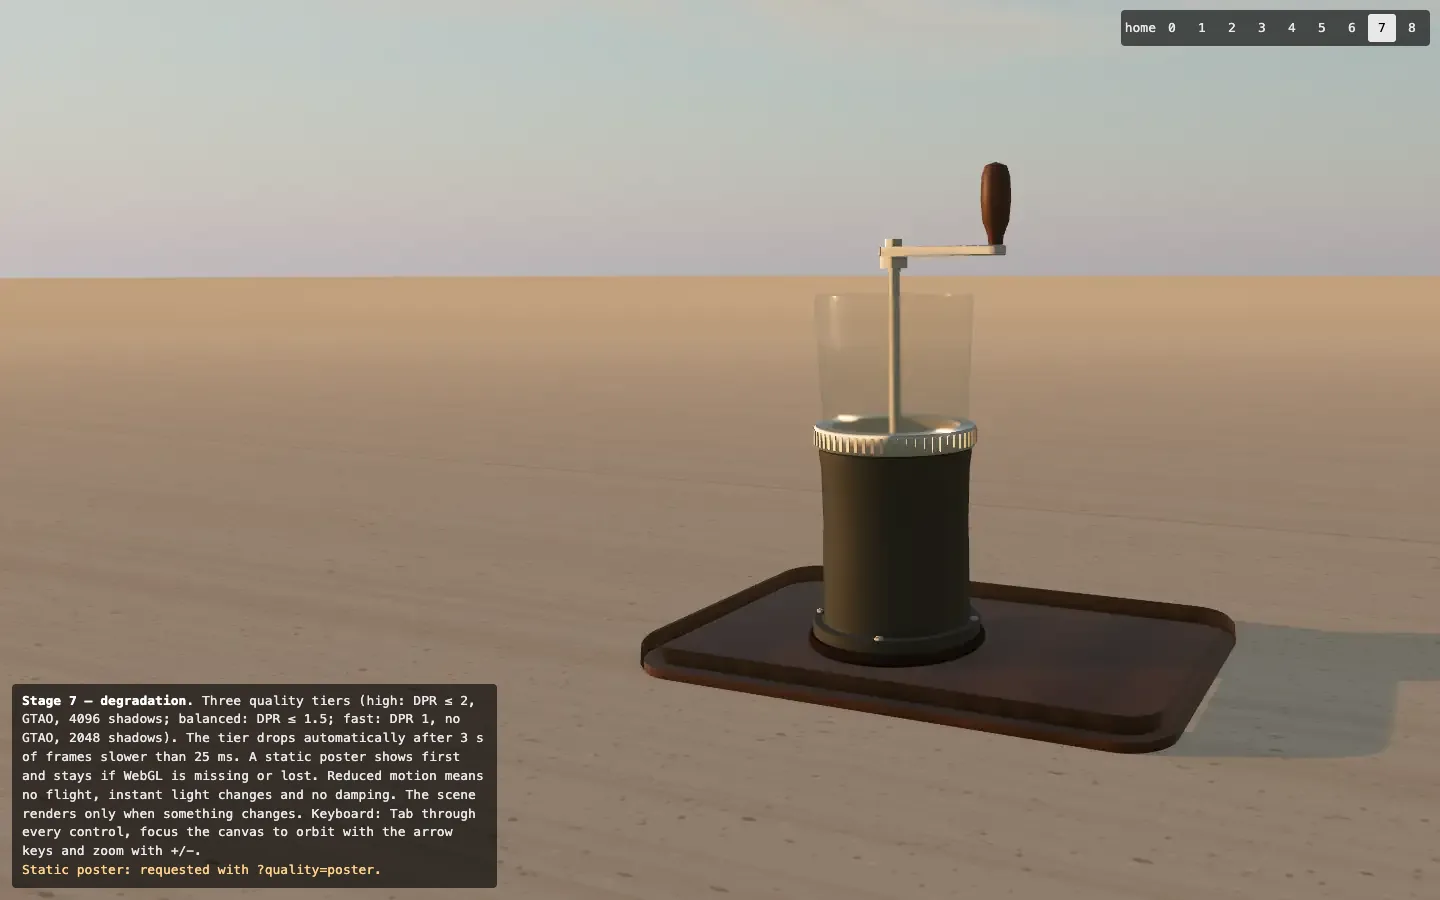
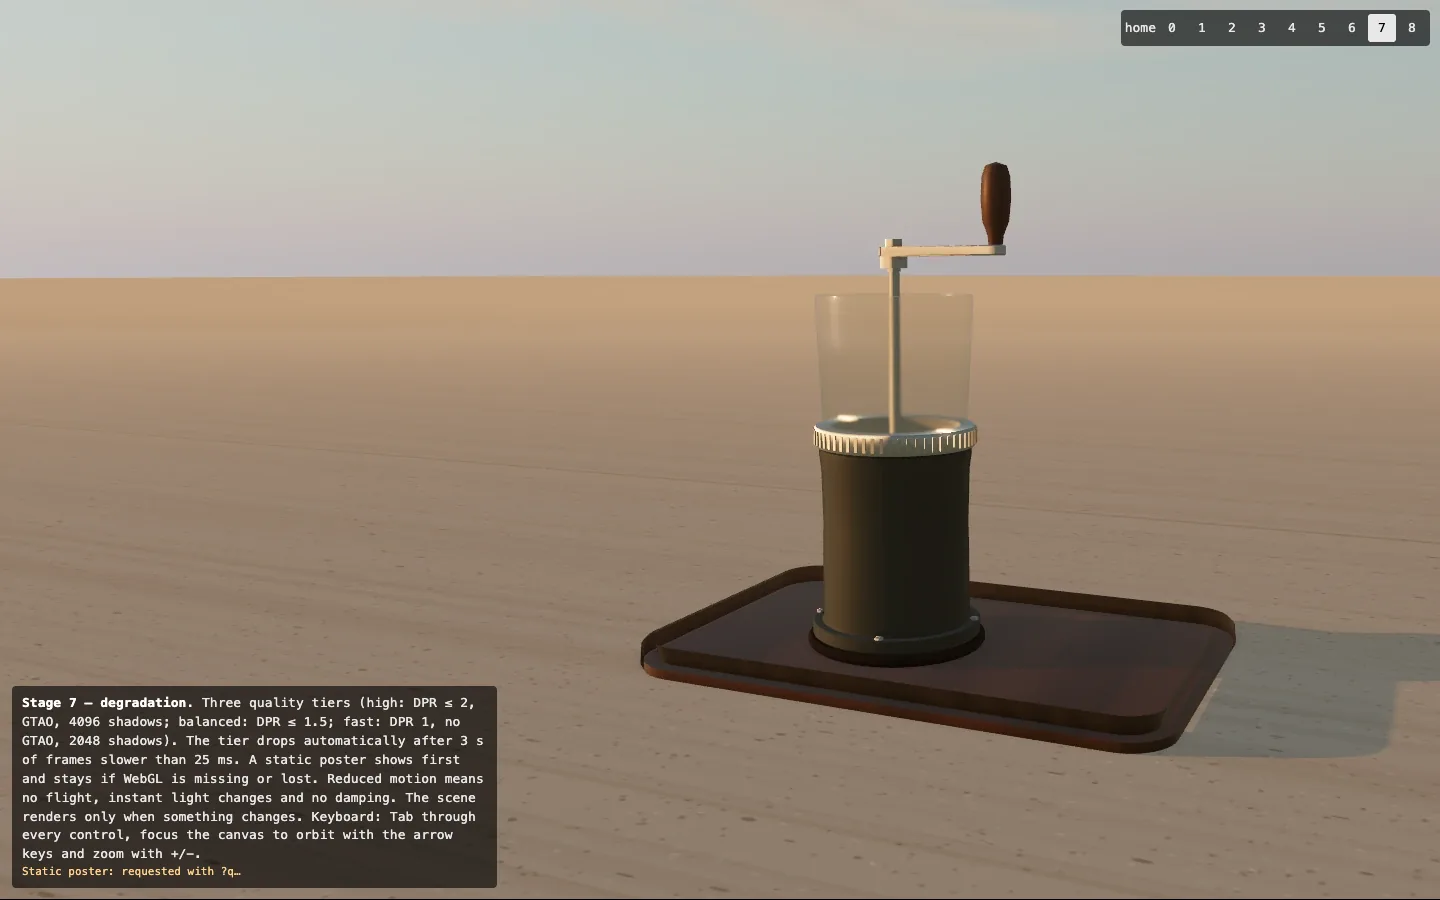
Fix 3.5.3: LCP is the poster (img#poster) on stages 7/8 — posters 48-49 KB, fetchpriority=high + preload, import map moved after the poster, #status 11px/34ch, poster 1px short of the viewport (Chrome skips a full-viewport image as background; tools/lcp_probe.py)

Changed region(s): [[0.0, 0.7467, 1.0, 1.0]]

diff --git a/stage-7/index.html b/stage-7/index.html
@@ -6,18 +6,15 @@
   <link rel="icon" href="data:,">
   <title>Stage 7 · degradation · coffee-grinder-3d lab</title>
   <meta name="description" content="Stage 7: the coffee grinder scene with three quality tiers, a static poster fallback, a reduced-motion path and full keyboard control.">
-  <script type="importmap">
-    { "imports": {
-        "three": "/vendor/three/build/three.module.min.js",
-        "three/addons/": "/vendor/three/examples/jsm/"
-    } }
-  </script>
   <link rel="stylesheet" href="/shared/shell.css">
-  <link rel="preload" as="image" href="/stage-7/poster-wide.webp" media="(min-aspect-ratio: 1/1)">
-  <link rel="preload" as="image" href="/stage-7/poster-tall.webp" media="(max-aspect-ratio: 1/1)">
+  <link rel="preload" as="image" href="/stage-7/poster-wide.webp" media="(min-aspect-ratio: 1/1)" fetchpriority="high">
+  <link rel="preload" as="image" href="/stage-7/poster-tall.webp" media="(max-aspect-ratio: 1/1)" fetchpriority="high">
   <style>
     /* the poster is the first paint and the fallback; the canvas covers it once frame 3 renders */
-    #poster { position: fixed; inset: 0; width: 100%; height: 100%; object-fit: cover; display: block; z-index: 0; }
+    /* Phase 3.5: 1 px short of the viewport. Chrome drops an image that covers the whole viewport as an LCP
+       candidate (treated as a background); measured with tools/lcp_probe.py: full size -> LCP #controls,
+       height - 1px -> LCP #poster. The 1 px strip is the black page background under the caption. */
+    #poster { position: fixed; top: 0; left: 0; width: 100%; height: calc(100% - 1px); object-fit: cover; display: block; z-index: 0; }
     canvas#gl { z-index: 1; opacity: 0; }
     body.gl-ready canvas#gl { opacity: 1; }
     body.gl-ready #poster { visibility: hidden; }
@@ -30,7 +27,8 @@
     .caption button { font: inherit; color: #e8e8e8; background: transparent; border: 1px solid rgba(255,255,255,.3); border-radius: 3px; padding: 2px 8px; min-height: 28px; min-width: 28px; cursor: pointer; }
     .caption button[aria-pressed="true"] { background: #e8e8e8; color: #000; }
     .caption button:focus-visible, .stages a:focus-visible, .skip:focus-visible { outline: 2px solid #ffd28a; outline-offset: 2px; }
-    #status { color: #ffd28a; }
+    /* Phase 3.5: never the largest text paint (LCP must be the poster): smaller than the caption, width capped */
+    #status { color: #ffd28a; font-size: 11px; max-width: 34ch; overflow: hidden; text-overflow: ellipsis; white-space: nowrap; }
     body.poster-only .caption .gl { display: none; }
     @media (prefers-reduced-motion: reduce) { * { transition: none !important; scroll-behavior: auto !important; } }
     @media (max-width: 600px) { .caption .long { display: none; } }
@@ -40,8 +38,15 @@
   <a class="skip" href="#controls">Skip to scene controls</a>
   <picture>
     <source media="(max-aspect-ratio: 1/1)" srcset="/stage-7/poster-tall.webp">
-    <img id="poster" src="/stage-7/poster-wide.webp" width="1440" height="900" alt="The coffee grinder on a walnut tray at golden hour, three-quarter view, on the right third of the frame. Static image.">
+    <img id="poster" src="/stage-7/poster-wide.webp" width="1440" height="900" fetchpriority="high" decoding="sync" alt="The coffee grinder on a walnut tray at golden hour, three-quarter view, on the right third of the frame. Static image.">
   </picture>
+  <!-- import map after the poster so the poster precedes every script element (Phase 3.5) -->
+  <script type="importmap">
+    { "imports": {
+        "three": "/vendor/three/build/three.module.min.js",
+        "three/addons/": "/vendor/three/examples/jsm/"
+    } }
+  </script>
   <canvas id="gl" tabindex="0" aria-label="Interactive 3D coffee grinder. With focus: arrow keys orbit, plus and minus zoom, 1 to 3 jump between views."></canvas>
   <nav class="stages" aria-label="Stages"></nav>
   <div class="caption" id="controls" tabindex="-1"><b>Stage 7 — degradation.</b> <span class="long">Three quality tiers (high: DPR ≤ 2, GTAO, 4096 shadows; balanced: DPR ≤ 1.5; fast: DPR 1, no GTAO, 2048 shadows). The tier drops automatically after 3 s of frames slower than 25 ms. A static poster shows first and stays if WebGL is missing or lost. Reduced motion means no flight, instant light changes and no damping. The scene renders only when something changes. Keyboard: Tab through every control, focus the canvas to orbit with the arrow keys and zoom with +/−.</span>

diff --git a/stage-8/index.html b/stage-8/index.html
@@ -6,18 +6,15 @@
   <link rel="icon" href="data:,">
   <title>Stage 8 · final · coffee-grinder-3d lab</title>
   <meta name="description" content="Stage 8: the final coffee grinder scene. Golden-hour light, rule-of-thirds composition, an exploded view with labels and x-ray, quality tiers, a static poster fallback, reduced motion and full keyboard control.">
-  <script type="importmap">
-    { "imports": {
-        "three": "/vendor/three/build/three.module.min.js",
-        "three/addons/": "/vendor/three/examples/jsm/"
-    } }
-  </script>
   <link rel="stylesheet" href="/shared/shell.css">
-  <link rel="preload" as="image" href="/stage-7/poster-wide.webp" media="(min-aspect-ratio: 1/1)">
-  <link rel="preload" as="image" href="/stage-7/poster-tall.webp" media="(max-aspect-ratio: 1/1)">
+  <link rel="preload" as="image" href="/stage-7/poster-wide.webp" media="(min-aspect-ratio: 1/1)" fetchpriority="high">
+  <link rel="preload" as="image" href="/stage-7/poster-tall.webp" media="(max-aspect-ratio: 1/1)" fetchpriority="high">
   <style>
     /* poster first (stage 7) */
-    #poster { position: fixed; inset: 0; width: 100%; height: 100%; object-fit: cover; display: block; z-index: 0; }
+    /* Phase 3.5: 1 px short of the viewport. Chrome drops an image that covers the whole viewport as an LCP
+       candidate (treated as a background); measured with tools/lcp_probe.py: full size -> LCP #controls,
+       height - 1px -> LCP #poster. The 1 px strip is the black page background under the caption. */
+    #poster { position: fixed; top: 0; left: 0; width: 100%; height: calc(100% - 1px); object-fit: cover; display: block; z-index: 0; }
     canvas#gl { z-index: 1; opacity: 0; }
     body.gl-ready canvas#gl { opacity: 1; }
     body.gl-ready #poster { visibility: hidden; }
@@ -43,7 +40,8 @@
     .caption button { font: inherit; color: #e8e8e8; background: transparent; border: 1px solid rgba(255,255,255,.3); border-radius: 3px; padding: 2px 8px; min-height: 28px; min-width: 28px; cursor: pointer; }
     .caption button[aria-pressed="true"] { background: #e8e8e8; color: #000; }
     .caption button:focus-visible, .caption input:focus-visible, .stages a:focus-visible, .skip:focus-visible { outline: 2px solid #ffd28a; outline-offset: 2px; }
-    #status { color: #ffd28a; }
+    /* Phase 3.5: never the largest text paint (LCP must be the poster): smaller than the caption, width capped */
+    #status { color: #ffd28a; font-size: 11px; max-width: 34ch; overflow: hidden; text-overflow: ellipsis; white-space: nowrap; }
     body.poster-only .caption .gl { display: none; }
     @media (prefers-reduced-motion: reduce) { * { transition: none !important; scroll-behavior: auto !important; } }
     @media (max-width: 600px) { .labels .label, .labels svg { display: none !important; } .caption .long { display: none; } }
@@ -53,8 +51,15 @@
   <a class="skip" href="#controls">Skip to scene controls</a>
   <picture>
     <source media="(max-aspect-ratio: 1/1)" srcset="/stage-7/poster-tall.webp">
-    <img id="poster" src="/stage-7/poster-wide.webp" width="1440" height="900" alt="The coffee grinder on a walnut tray at golden hour, three-quarter view, on the right third of the frame. Static image.">
+    <img id="poster" src="/stage-7/poster-wide.webp" width="1440" height="900" fetchpriority="high" decoding="sync" alt="The coffee grinder on a walnut tray at golden hour, three-quarter view, on the right third of the frame. Static image.">
   </picture>
+  <!-- import map after the poster so the poster precedes every script element (Phase 3.5) -->
+  <script type="importmap">
+    { "imports": {
+        "three": "/vendor/three/build/three.module.min.js",
+        "three/addons/": "/vendor/three/examples/jsm/"
+    } }
+  </script>
   <canvas id="gl" tabindex="0" aria-label="Interactive 3D coffee grinder. With focus: arrow keys orbit, plus and minus zoom, 1 to 3 jump between views. Hover or tap a part to name it."></canvas>
   <div class="labels" aria-hidden="true"></div>
   <nav class="stages" aria-label="Stages"></nav>

diff --git a/tools/lcp_probe.py b/tools/lcp_probe.py
@@ -1,0 +1,49 @@
+#!/usr/bin/env python3
+"""Which element does Chrome report as LCP, and why is the poster skipped?
+
+    python3 tools/lcp_probe.py
+
+Loads stage 8 in headless Chromium (Metal ANGLE) with a PerformanceObserver installed before any
+page script, and records every largest-contentful-paint entry (element, size, url). Variants
+inject one CSS change each so the cause can be isolated:
+  as-is            : the page unchanged
+  inset-1px        : poster 1 px smaller than the viewport on every side (not "full viewport")
+  no-gl            : ?quality=poster (no canvas ever covers the poster)
+Prints the entries per variant."""
+import json
+from playwright.sync_api import sync_playwright
+
+INIT = """window.__lcp = []; new PerformanceObserver(l => { for (const e of l.getEntries()) window.__lcp.push({
+  t: Math.round(e.startTime), size: e.size, url: e.url ? e.url.replace(location.origin, '') : '',
+  el: e.element ? (e.element.id ? '#' + e.element.id : e.element.tagName.toLowerCase() + (e.element.className ? '.' + e.element.className : '')) : null }); })
+  .observe({ type: 'largest-contentful-paint', buffered: true });"""
+VARIANTS = {
+    "as-is": ("", ""),
+    "inset-1px": ("", "#poster{inset:1px!important;width:calc(100% - 2px)!important;height:calc(100% - 2px)!important}"),
+    "no-gl": ("?quality=poster", ""),
+    "height-1px": ("", "#poster{height:calc(100% - 1px)!important;inset:0 0 auto 0!important}"),
+    "full-viewport": ("", "#poster{inset:0!important;height:100%!important}"),
+}
+
+with sync_playwright() as p:
+    b = p.chromium.launch(args=["--enable-gpu", "--ignore-gpu-blocklist", "--use-angle=metal"])
+    out = {}
+    for w, h in ((1440, 900), (390, 844)):
+        for name, (q, css) in VARIANTS.items():
+            ctx = b.new_context(viewport={"width": w, "height": h}, device_scale_factor=2 if w < 600 else 1)
+            pg = ctx.new_page()
+            js = INIT
+            if css:
+                js += f"document.addEventListener('readystatechange', () => {{ if (!document.getElementById('probe-css')) {{ const s = document.createElement('style'); s.id = 'probe-css'; s.textContent = {json.dumps(css)}; document.documentElement.appendChild(s); }} }}, {{ once: true }});"
+            pg.add_init_script(js)
+            pg.goto(f"http://127.0.0.1:4321/stage-8/{q}")
+            pg.wait_for_function("window.__ready === true", timeout=60000)
+            pg.wait_for_timeout(1500)
+            pg.mouse.click(5, 5)  # LCP stops at first input; read after
+            entries = pg.evaluate("window.__lcp")
+            key = f"{w}x{h} {name}"
+            out[key] = entries
+            print(f"{key:22} " + "  ->  ".join(f"{e['el']} {e['size']}px² @{e['t']}ms{(' ' + e['url']) if e['url'] else ''}" for e in entries))
+            ctx.close()
+    b.close()
+print(json.dumps(out))

diff --git a/tools/poster.py b/tools/poster.py
@@ -1,0 +1,54 @@
+#!/usr/bin/env python3
+"""Render the stage-7/8 posters (same frame as before: /stage-4/?view=hero&record=1) and encode
+them as WebP at the lowest quality that lands inside a byte window (Phase 3.5: 40-60 KB at
+1440x900, so Chrome's low-entropy LCP heuristic does not skip the image).
+
+    python3 tools/poster.py [--min-kb 40 --max-kb 60]
+
+Prints, per variant, every quality tried with its size and bits per pixel. Chrome ignores an
+image as an LCP candidate when it is under 0.05 bits per displayed pixel; that is printed too."""
+import argparse, io, json
+from pathlib import Path
+from PIL import Image
+from playwright.sync_api import sync_playwright
+
+VARIANTS = [("stage-7/poster-wide.webp", 1440, 900), ("stage-7/poster-tall.webp", 585, 1266)]
+
+
+def main():
+    ap = argparse.ArgumentParser()
+    ap.add_argument("--min-kb", type=float, default=40)
+    ap.add_argument("--max-kb", type=float, default=60)
+    a = ap.parse_args()
+    out = {}
+    with sync_playwright() as p:
+        b = p.chromium.launch(args=["--enable-gpu", "--ignore-gpu-blocklist", "--use-angle=metal"])
+        for path, w, h in VARIANTS:
+            pg = b.new_page(viewport={"width": w, "height": h})
+            pg.goto("http://127.0.0.1:4321/stage-4/?view=hero&record=1")
+            pg.wait_for_function("window.__ready === true", timeout=60000)
+            pg.wait_for_timeout(1500)
+            im = Image.open(io.BytesIO(pg.screenshot())).convert("RGB")
+            pg.close()
+            tried, chosen = [], None
+            for q in range(70, 101, 2):
+                buf = io.BytesIO(); im.save(buf, "WEBP", quality=q, method=6)
+                n = buf.tell(); tried.append((q, n, round(n * 8 / (w * h), 3)))
+                if n >= a.min_kb * 1024 and chosen is None:
+                    chosen = (q, buf.getvalue())
+                if n > a.max_kb * 1024:
+                    break
+            if chosen is None or len(chosen[1]) > a.max_kb * 1024:
+                # window not reachable with lossy; fall back to the largest lossy under max
+                ok = [t for t in tried if t[1] <= a.max_kb * 1024]
+                q = ok[-1][0]; buf = io.BytesIO(); im.save(buf, "WEBP", quality=q, method=6); chosen = (q, buf.getvalue())
+            Path(path).write_bytes(chosen[1])
+            n = len(chosen[1])
+            out[path] = {"size": f"{w}x{h}", "quality": chosen[0], "bytes": n, "bpp": round(n * 8 / (w * h), 3), "tried": tried}
+            print(f"{path}: {w}x{h} q{chosen[0]} {n} B  {n * 8 / (w * h):.3f} bits/px   tried {tried}")
+        b.close()
+    print(json.dumps(out))
+
+
+if __name__ == "__main__":
+    main()
